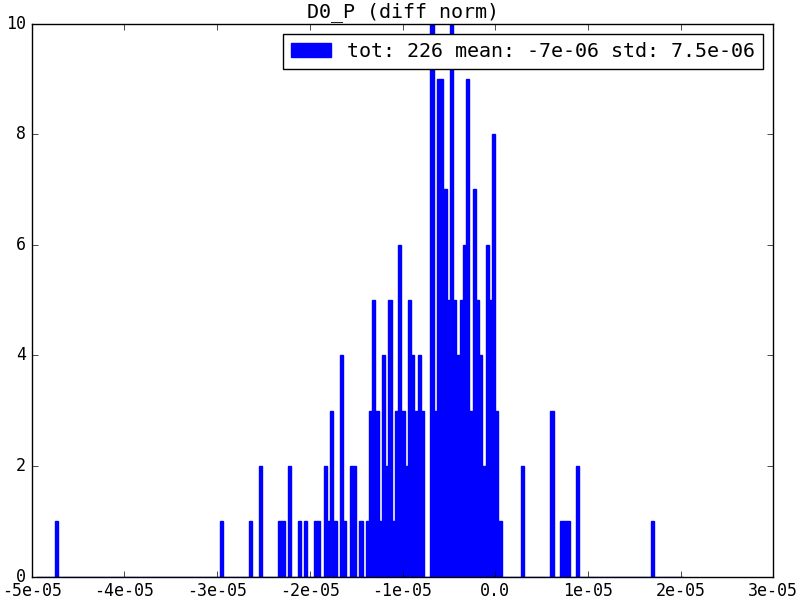
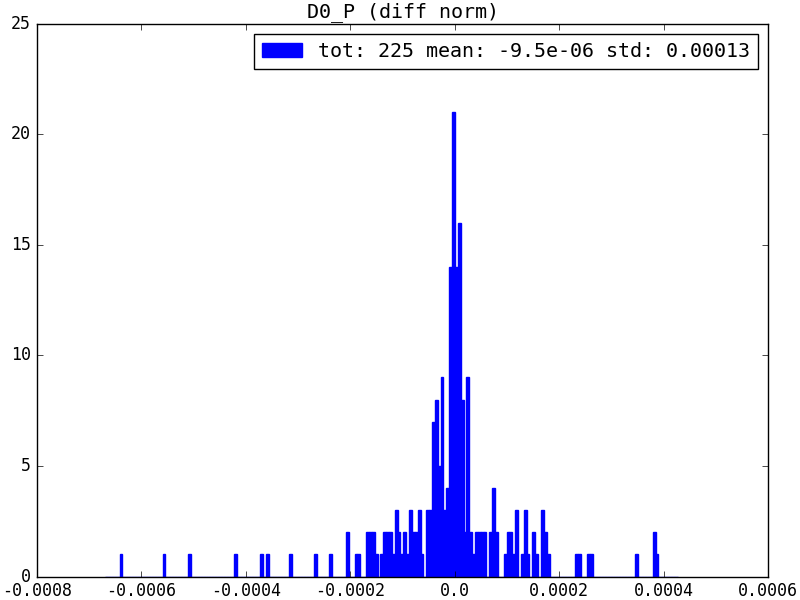
Disable refit.

Changed region(s): [[0.125, 0.03, 1.0, 1.0], [0.0, 0.03, 0.0938, 1.0]]

diff --git a/run1-b2D0MuXB2DMuNuForTauMuLine/reco_Dst.py b/run1-b2D0MuXB2DMuNuForTauMuLine/reco_Dst.py
@@ -1,6 +1,6 @@
 # Author: Phoebe Hamilton, Manuel Franco Sevilla, Yipeng Sun
 # License: BSD 2-clause
-# Last Change: Fri Sep 27, 2019 at 04:20 PM -0400
+# Last Change: Fri Sep 27, 2019 at 05:01 PM -0400
 
 #####################
 # Configure DaVinci #
@@ -423,19 +423,19 @@ from PhysSelPython.Wrappers import SelectionSequence
 seq_B0 = SelectionSequence(
     'SeqMyB0',
     EventPreSelector=event_pre_selectors,
-    TopSelection=sel_refit_B02DstMu
+    TopSelection=sel_B0
 )
 
 seq_B0_ws_Mu = SelectionSequence(
     'SeqMyB0WSMu',
     EventPreSelector=event_pre_selectors,
-    TopSelection=sel_refit_B02DstMu_ws_Mu
+    TopSelection=sel_B0_ws_Mu
 )
 
 seq_B0_ws_Pi = SelectionSequence(
     'SeqMyB0WSPi',
     EventPreSelector=event_pre_selectors,
-    TopSelection=sel_refit_B02DstMu_ws_Pi
+    TopSelection=sel_B0_ws_Pi
 )
 
 
